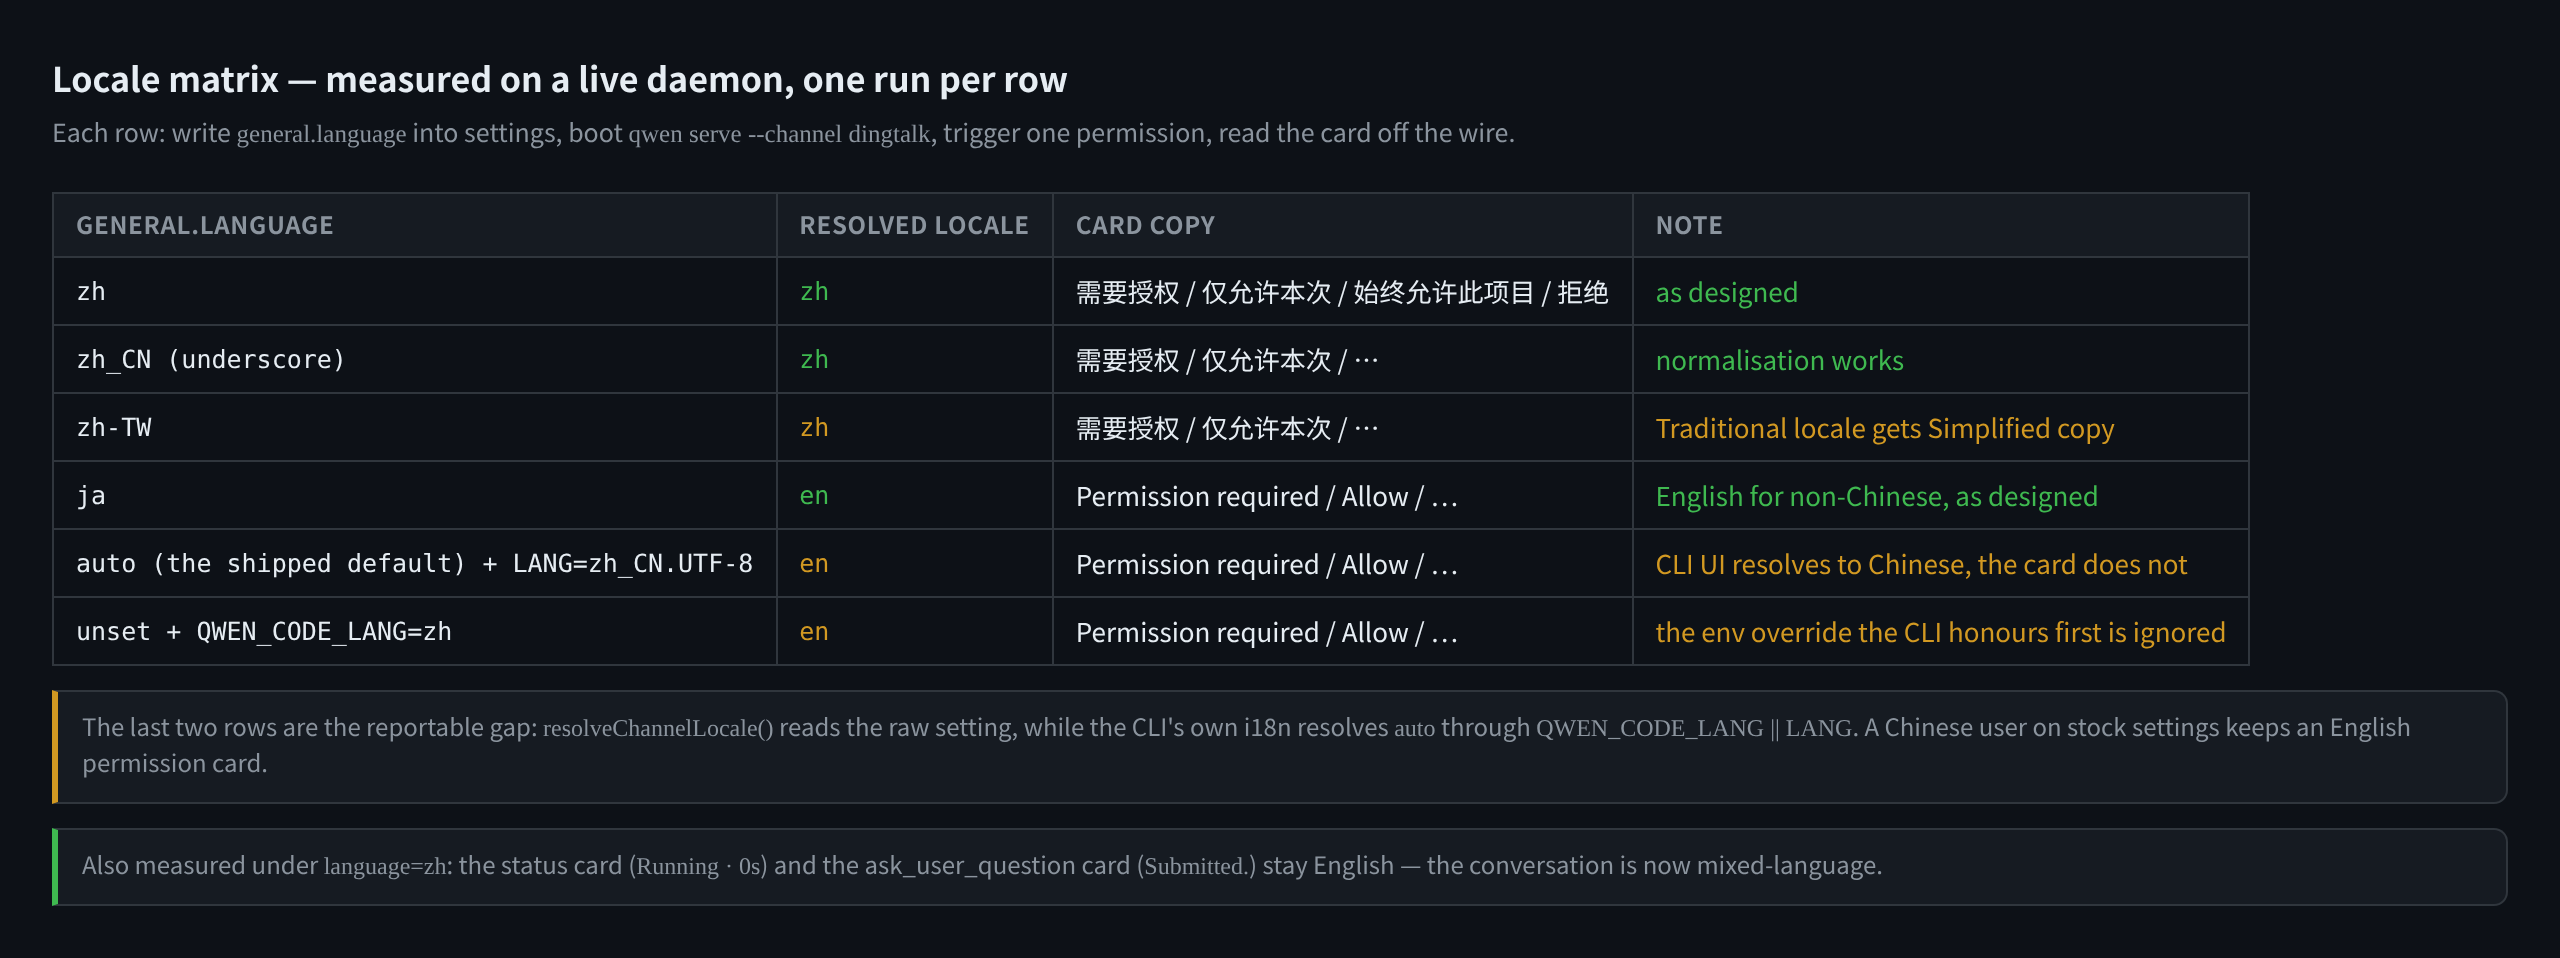
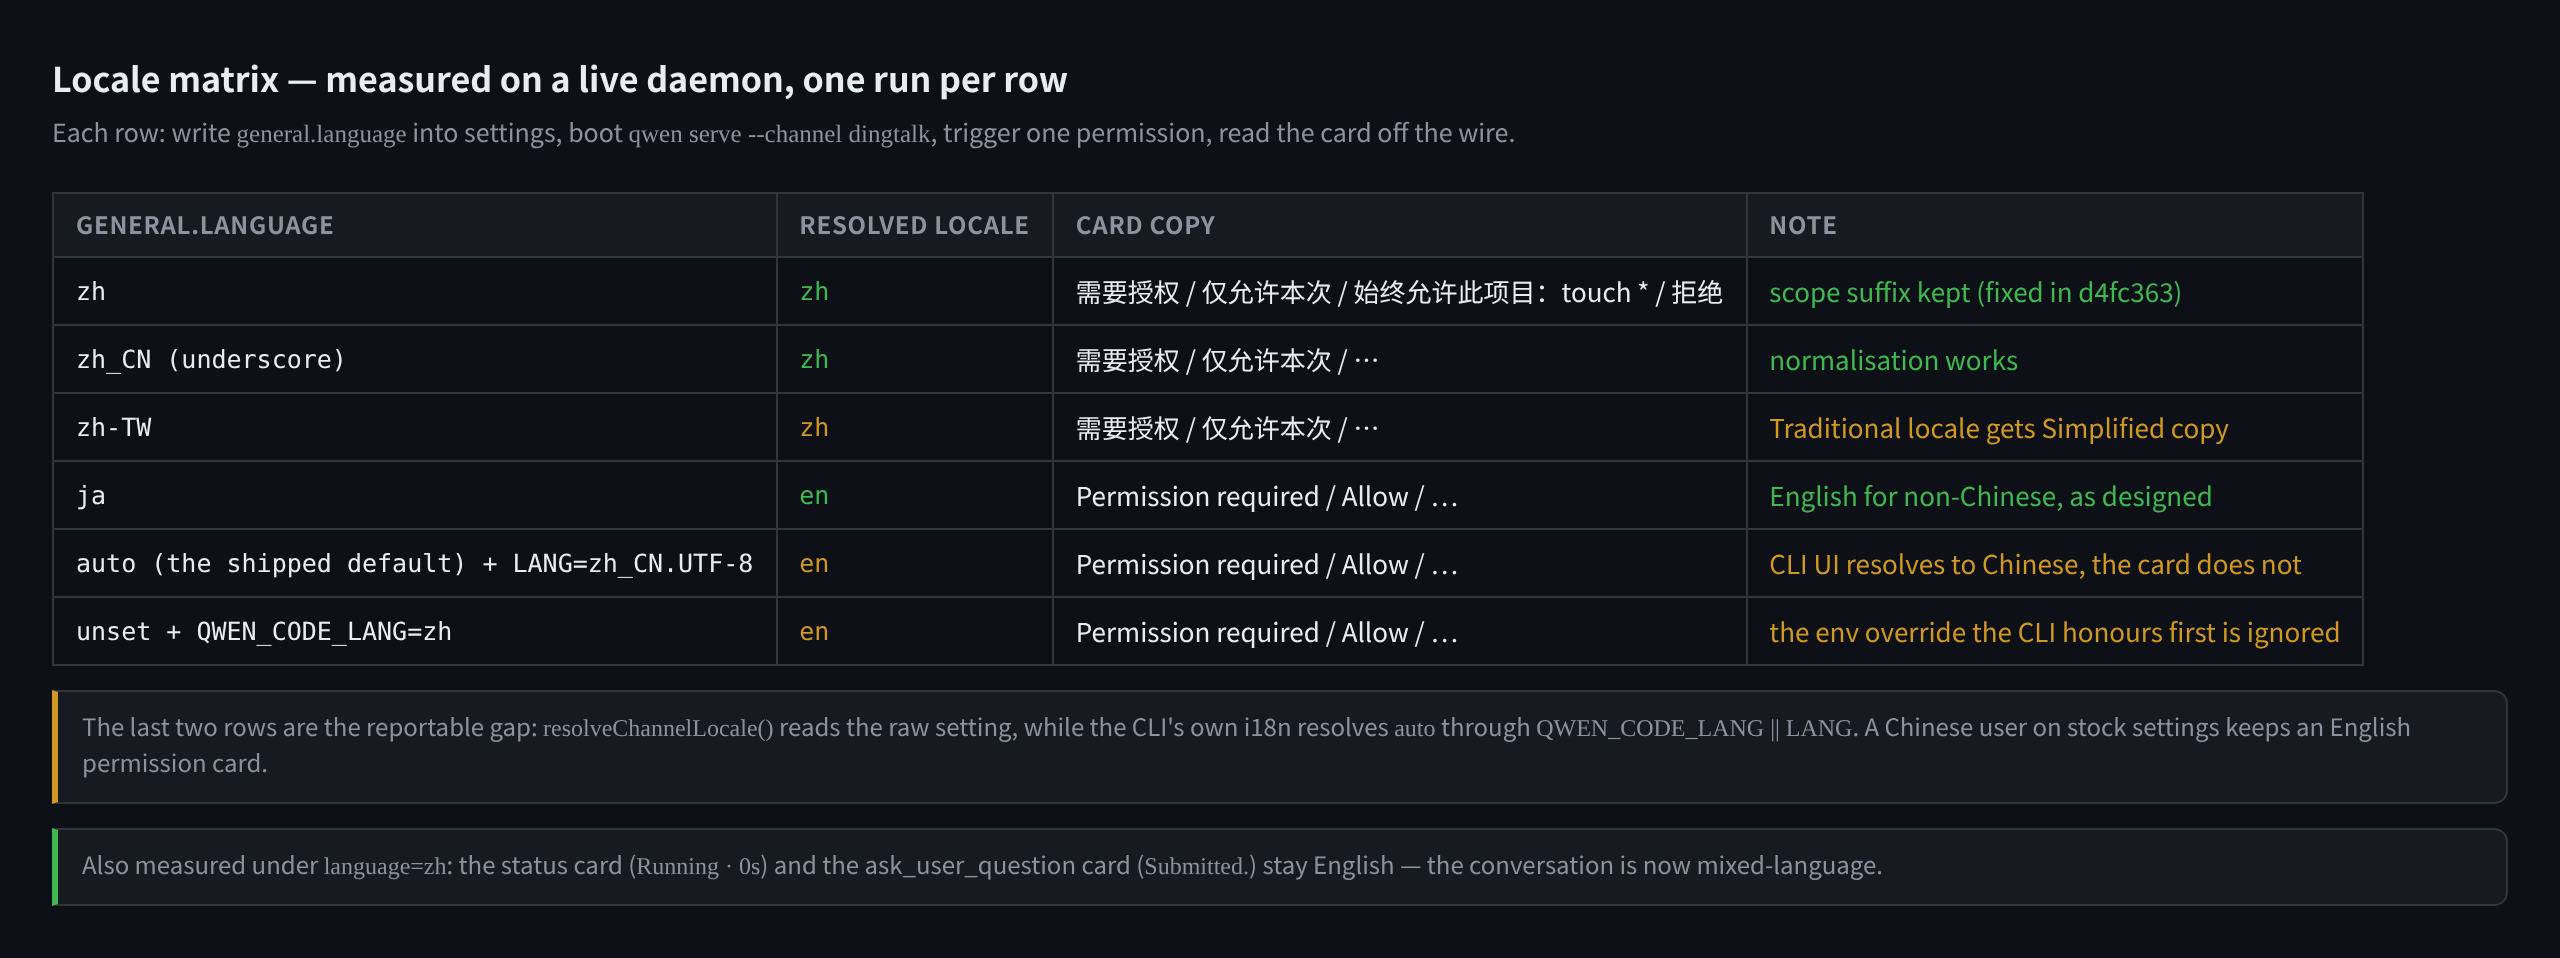
assets: refresh for PR #10457 head d4fc363

diff --git a/README.md b/README.md
@@ -3,7 +3,7 @@
 Screenshots produced while verifying
 [QwenLM/qwen-code#10457](https://github.com/QwenLM/qwen-code/pull/10457)
 (`feat(dingtalk): present tool permission requests with native interactive cards`)
-on Linux with a local full-stack DingTalk harness.
+on Linux with a local full-stack DingTalk harness (PR head `d4fc363`).
 
 The card renderings are the harness's approximation of the DingTalk form card,
 drawn from the exact `cardParamMap` the daemon put on the wire. They are not
